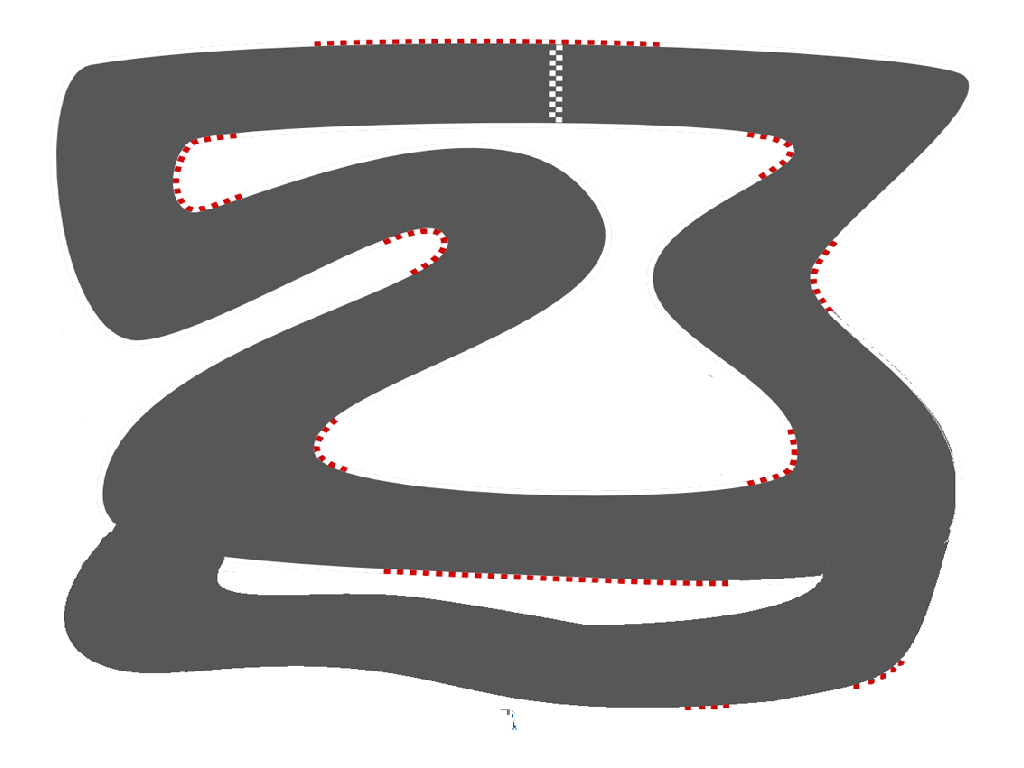
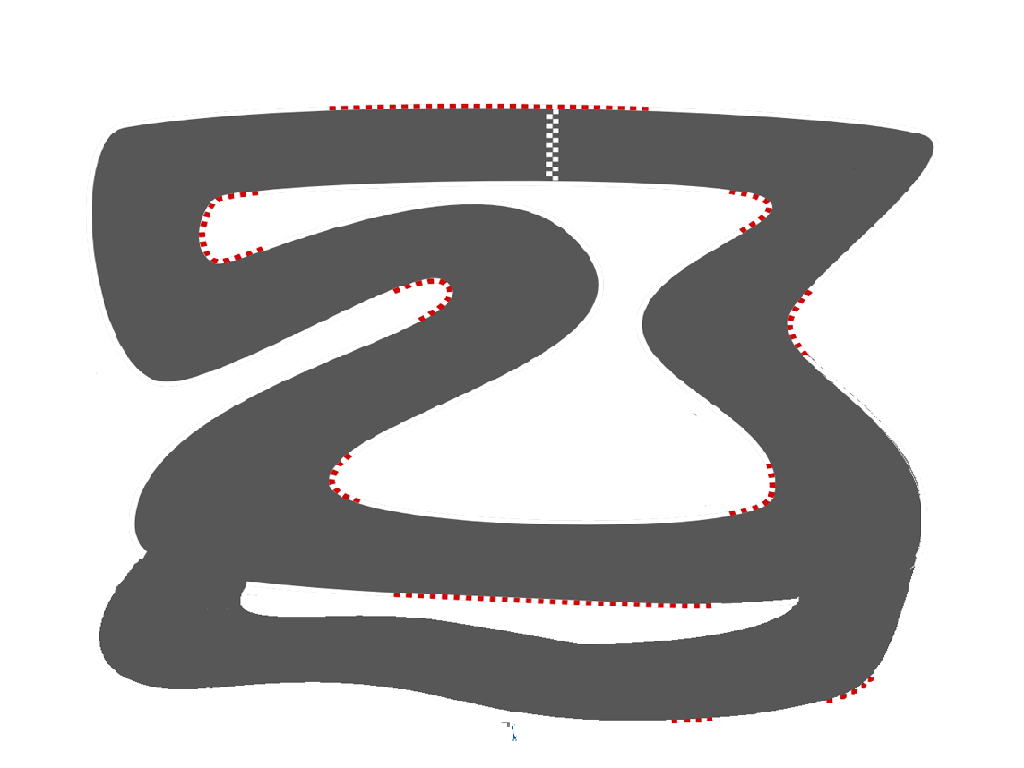
Added Real-Time info

diff --git a/RaceGame/RaceGame/MainWindow.cs b/RaceGame/RaceGame/MainWindow.cs
@@ -5,6 +5,7 @@ using System.Data;
 using System.Diagnostics;
 using System.Drawing;
 using System.Drawing.Configuration;
+using System.Drawing.Text;
 using System.IO;
 using System.Linq;
 using System.Text;
@@ -16,9 +17,11 @@ namespace RaceGame
 {
     public partial class MainWindow : Form
     {
-        public static Rectangle screenSize = new Rectangle(0,0,1024,768);
+        public static Rectangle screenSize = new Rectangle(0,0,1011,729);
         public int time = 0;
         public int playerCount = 1;
+        double[] Player1Info = new double[4];
+        double[] Player2Info = new double[4];
         public List<Keys> currentInput
         {
             get { return _currentInput; }
@@ -33,6 +36,7 @@ namespace RaceGame
 
         GraphicsEngine gEngine;
         Timer GameTimer = new Timer();
+        Timer InfoTimer = new Timer();
 
         List<Player> players = new List<Player>();
 
@@ -52,16 +56,20 @@ namespace RaceGame
             GameTimer.Tick += new EventHandler(GameUpdate);
             GameTimer.Start();
 
+            InfoTimer.Interval = 100;
+            InfoTimer.Tick += new EventHandler(InfoUpdate);
+            InfoTimer.Start();
+
             this.Paint += new PaintEventHandler(Draw);
             this.KeyDown += new KeyEventHandler(SetKeysDown);
             this.KeyUp += new KeyEventHandler(SetKeysUp);
-
-
+            
             GraphicsEngine.AddAsset(new Asset(GraphicsEngine.assetsToRender,Resources.Background, Point.Empty, 0,1,1), RenderType.Background);
             //GraphicsEngine.AddAsset(new Asset(20,car1, new Point(0, 0), 0), RenderType.Player);
 
             players.Add(new Player("1",new Point(0,0),0,car1,new List<Keys>(){Keys.W,Keys.S,Keys.A,Keys.D}));
             players.Add(new Player("2", new Point(0,50),0,car2,new List<Keys>(){Keys.Up,Keys.Down,Keys.Left,Keys.Right}));
+            
        }
 
         private void GameUpdate(object sender, EventArgs e)
@@ -71,6 +79,25 @@ namespace RaceGame
             AddInputs();
         }
 
+        private void InfoUpdate(object sender, EventArgs e)
+        {
+            int count = 1;
+            foreach (Player p in players)
+            {
+                if (count == 1)
+                {
+                    Player1Info = p.GetInfo();
+                    count++;
+                }
+                else if(count == 2)
+                {
+                    Player2Info = p.GetInfo();
+                    count--;
+                }
+            }
+            Meter1.Text = "Player 1\r\nSpeed: " + (int)Player1Info[0] + "\r\nFuel: " + (int)Player1Info[1] + "\r\nLaps: " + (int)Player1Info[2] + "\r\nPits: " + (int)Player1Info[3];
+            Meter2.Text = "Player 2\r\n" + (int)Player2Info[0] + " :Speed\r\n" + (int)Player2Info[1] + " :Fuel\r\n" + (int)Player2Info[2] + " :Laps\r\n" + (int)Player2Info[3] + " :Pits";
+        }
         private void SetKeysUp(object sender, KeyEventArgs e)
         {
             if (currentInput.Contains(e.KeyCode))

diff --git a/RaceGame/RaceGame/MainWindow.Designer.cs b/RaceGame/RaceGame/MainWindow.Designer.cs
@@ -29,24 +29,49 @@
         private void InitializeComponent()
         {
             this.canvas = new System.Windows.Forms.PictureBox();
+            this.Meter1 = new System.Windows.Forms.Label();
+            this.Meter2 = new System.Windows.Forms.Label();
             ((System.ComponentModel.ISupportInitialize)(this.canvas)).BeginInit();
             this.SuspendLayout();
             // 
             // canvas
             // 
             this.canvas.BackgroundImageLayout = System.Windows.Forms.ImageLayout.None;
-            this.canvas.Location = new System.Drawing.Point(-3, -5);
+            this.canvas.Location = new System.Drawing.Point(-1, -1);
             this.canvas.Name = "canvas";
-            this.canvas.Size = new System.Drawing.Size(1010, 733);
+            this.canvas.Size = new System.Drawing.Size(1011, 729);
             this.canvas.TabIndex = 2;
             this.canvas.TabStop = false;
             this.canvas.Paint += new System.Windows.Forms.PaintEventHandler(this.Draw);
+            // 
+            // Meter1
+            // 
+            this.Meter1.AutoSize = true;
+            this.Meter1.BackColor = System.Drawing.Color.Transparent;
+            this.Meter1.Location = new System.Drawing.Point(12, 9);
+            this.Meter1.Name = "Meter1";
+            this.Meter1.Size = new System.Drawing.Size(36, 13);
+            this.Meter1.TabIndex = 3;
+            this.Meter1.Text = "Empty";
+            // 
+            // Meter2
+            // 
+            this.Meter2.AutoSize = true;
+            this.Meter2.BackColor = System.Drawing.Color.Transparent;
+            this.Meter2.Location = new System.Drawing.Point(936, 9);
+            this.Meter2.Name = "Meter2";
+            this.Meter2.Size = new System.Drawing.Size(36, 13);
+            this.Meter2.TabIndex = 4;
+            this.Meter2.Text = "Empty";
+            this.Meter2.TextAlign = System.Drawing.ContentAlignment.TopRight;
             // 
             // MainWindow
             // 
             this.AutoScaleDimensions = new System.Drawing.SizeF(6F, 13F);
             this.AutoScaleMode = System.Windows.Forms.AutoScaleMode.Font;
             this.ClientSize = new System.Drawing.Size(1008, 729);
+            this.Controls.Add(this.Meter2);
+            this.Controls.Add(this.Meter1);
             this.Controls.Add(this.canvas);
             this.DoubleBuffered = true;
             this.MaximizeBox = false;
@@ -57,12 +82,15 @@
             this.FormClosed += new System.Windows.Forms.FormClosedEventHandler(this.Exit);
             ((System.ComponentModel.ISupportInitialize)(this.canvas)).EndInit();
             this.ResumeLayout(false);
+            this.PerformLayout();
 
         }
 
         #endregion
 
         public System.Windows.Forms.PictureBox canvas;
+        private System.Windows.Forms.Label Meter1;
+        private System.Windows.Forms.Label Meter2;
     }
 }
 

diff --git a/RaceGame/RaceGame/GraphicsEngine.cs b/RaceGame/RaceGame/GraphicsEngine.cs
@@ -39,7 +39,7 @@ namespace RaceGame
         Graphics drawHandle;
         Bitmap backBuffer;
         Thread mainRenderThread;
-        Thread debugThread;
+        //Thread debugThread;
         
         static List<Asset> backgroundAssets = new List<Asset>();
         static List<Asset> playerAssets = new List<Asset>();
@@ -57,8 +57,8 @@ namespace RaceGame
             mainRenderThread = new Thread(new ThreadStart(GraphicsUpdate));
             mainRenderThread.Start();
 
-            debugThread = new Thread(new ThreadStart(DebugThread));
-            debugThread.Start();
+            //debugThread = new Thread(new ThreadStart(DebugThread));
+            //debugThread.Start();
 
         }
 
@@ -163,7 +163,7 @@ namespace RaceGame
         public void Stop()
         {
             mainRenderThread.Abort();
-            debugThread.Abort();
+            //debugThread.Abort();
         }
 
         public static void AddAsset(Asset assetToRender, RenderType type)
@@ -230,7 +230,7 @@ namespace RaceGame
             }
         }
         
-        public void DebugThread()
+        /*public void DebugThread()
         {
             while (true)
             {
@@ -242,7 +242,7 @@ namespace RaceGame
                     startTime = Environment.TickCount;
                 }
             }
-        }
+        }*/
 
     }
 }

diff --git a/RaceGame/RaceGame/Player.cs b/RaceGame/RaceGame/Player.cs
@@ -16,7 +16,6 @@ namespace RaceGame
         int roundsElapsed = 0;
         float fuelRemaining = 100;
         int pitStops = 0;
-        float accStep = 0.25F;
         bool F, B, L, R;
         int fuelCalcCounter = 0;
         float[] fuelCalcVal = new float[10];
@@ -29,7 +28,7 @@ namespace RaceGame
             this.name = name;
             this.playerCar = new Car(int.Parse(name),startPos,startRot,playerImage,0.25f,0.25f);
             this.playerKeys = playerKeysToUse;
-
+            
             //register with graphicsEngine
             GraphicsEngine.AddAsset(new Asset(++GraphicsEngine.assetsToRender,playerCar.image,playerCar.pos,playerCar.rot,playerCar.scaleX,playerCar.scaleY),RenderType.Player);
         
@@ -40,6 +39,10 @@ namespace RaceGame
 
         }
 
+        public double[] GetInfo()
+        {
+            return new double[4] {playerCar.currentSpeed, fuelRemaining, roundsElapsed, pitStops};
+        }
         public void CompareInput(Keys keyToCompare)
         {
             if (!playerKeys.Contains(keyToCompare))

diff --git a/RaceGame/RaceGame/Car.cs b/RaceGame/RaceGame/Car.cs
@@ -12,13 +12,13 @@ namespace RaceGame
     {
         public Bitmap image;
         public Point pos;
-        public int currentSpeed = 0;
+        public float currentSpeed = 0;
         public int rot;
         public float scaleX,scaleY;
 
         int playerId;
         public int maxSpeed =12;
-        int accStep = 1;
+        public float accStep = 0.5f;
         Timer carTimer = new Timer();
 
         public Car(int playerId, Point startPos, int startRot, Bitmap carImage,float xScale=0,float yScale=0)
